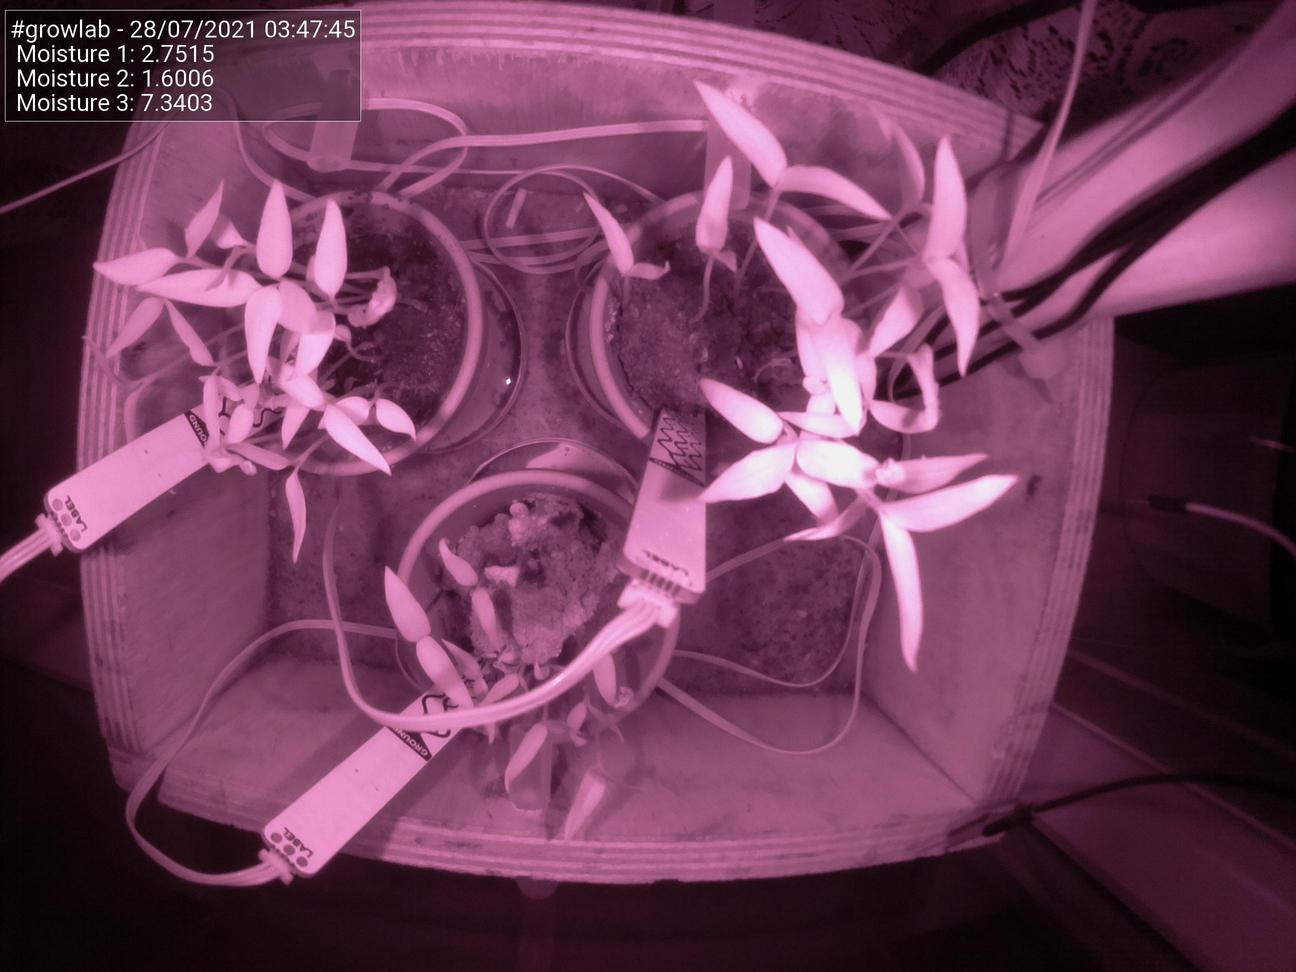
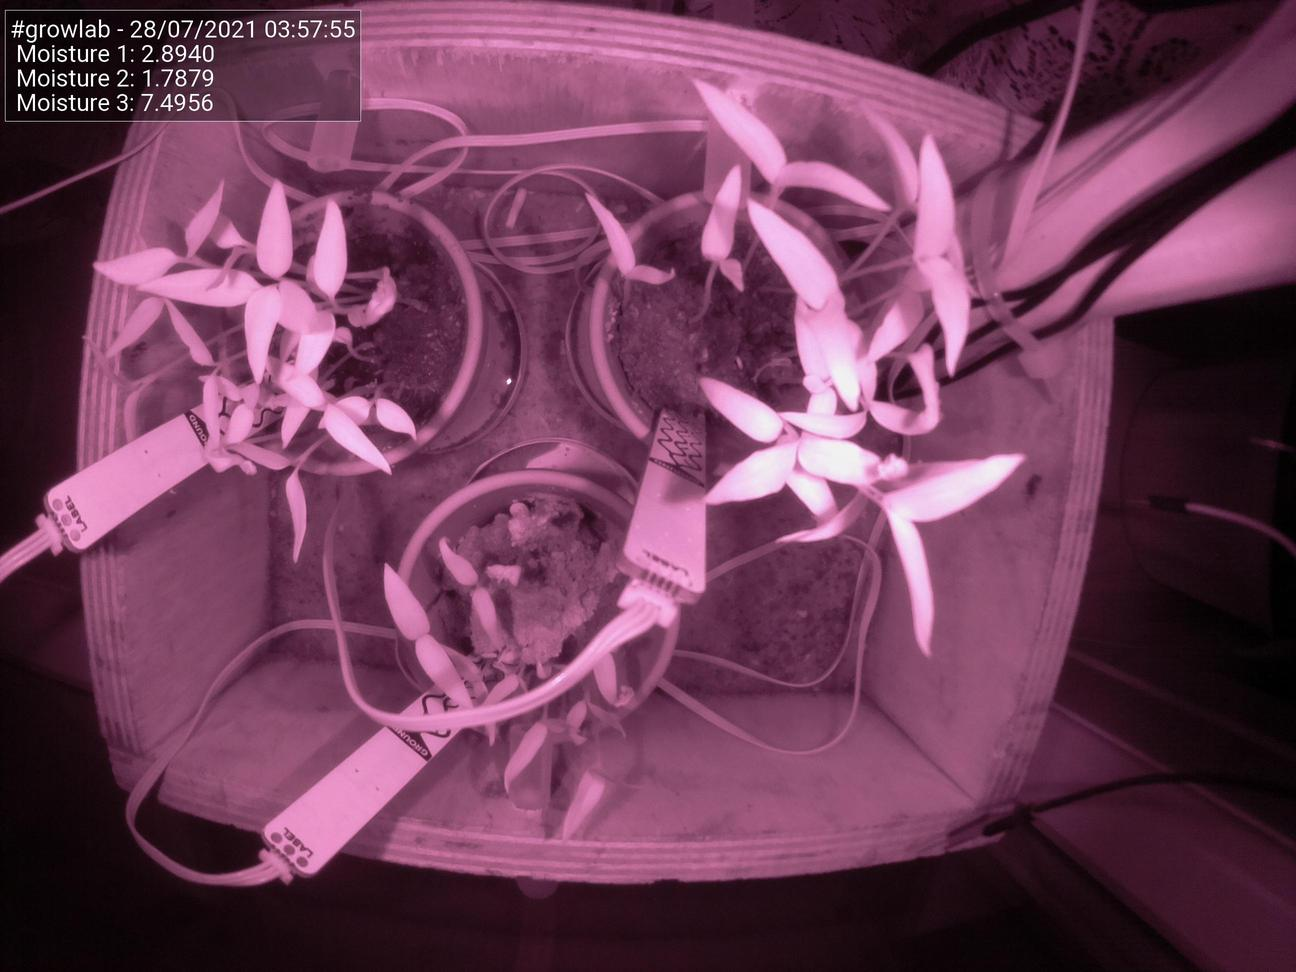
Update images at Wed 28 Jul 03:58:00 BST 2021

diff --git a/docs/index.html b/docs/index.html
@@ -51,25 +51,25 @@
                                 <td>Date</td>
                                 <td>28/07/2021</td>
                                 <td>Time</td>
-                                <td>03:47:45</td>
+                                <td>03:57:55</td>
                             </tr>
                             <tr>
                                 <td>Temperature</td>
                                 <td>N/A</td>
                                 <td>Moisture 1</td>
-                                <td>2.7515</td>
+                                <td>2.8940</td>
                             </tr>
                             <tr>
                                 <td>Humidity</td>
                                 <td>N/A</td>
                                 <td>Moisture 2</td>
-                                <td>1.6006</td>
+                                <td>1.7879</td>
                             </tr>
                             <tr>
                                 <td>Pressure</td>
                                 <td>N/A</td>
                                 <td>Moisture 3</td>
-                                <td>7.3403</td>
+                                <td>7.4956</td>
                             </tr>
                         </tbody>
                     </table>
@@ -77,7 +77,7 @@
 
                 <h5>Latest image</h5>
                 <div style="width: 85%;">
-                            <img class="figure-img img-fluid rounded" src="./preview.jpg?uid=1627440470.8224409">
+                            <img class="figure-img img-fluid rounded" src="./preview.jpg?uid=1627441080.6604736">
                 </div>
             </div>
         </div>
